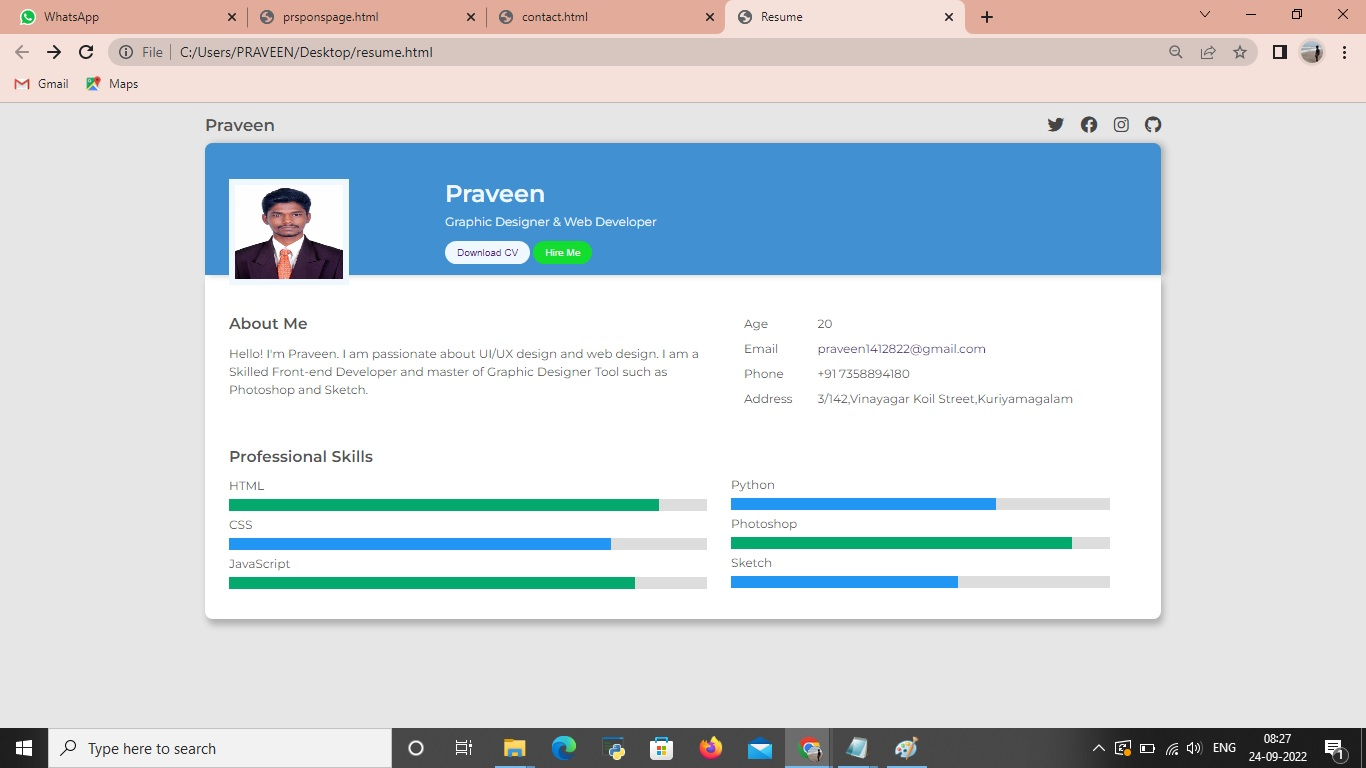
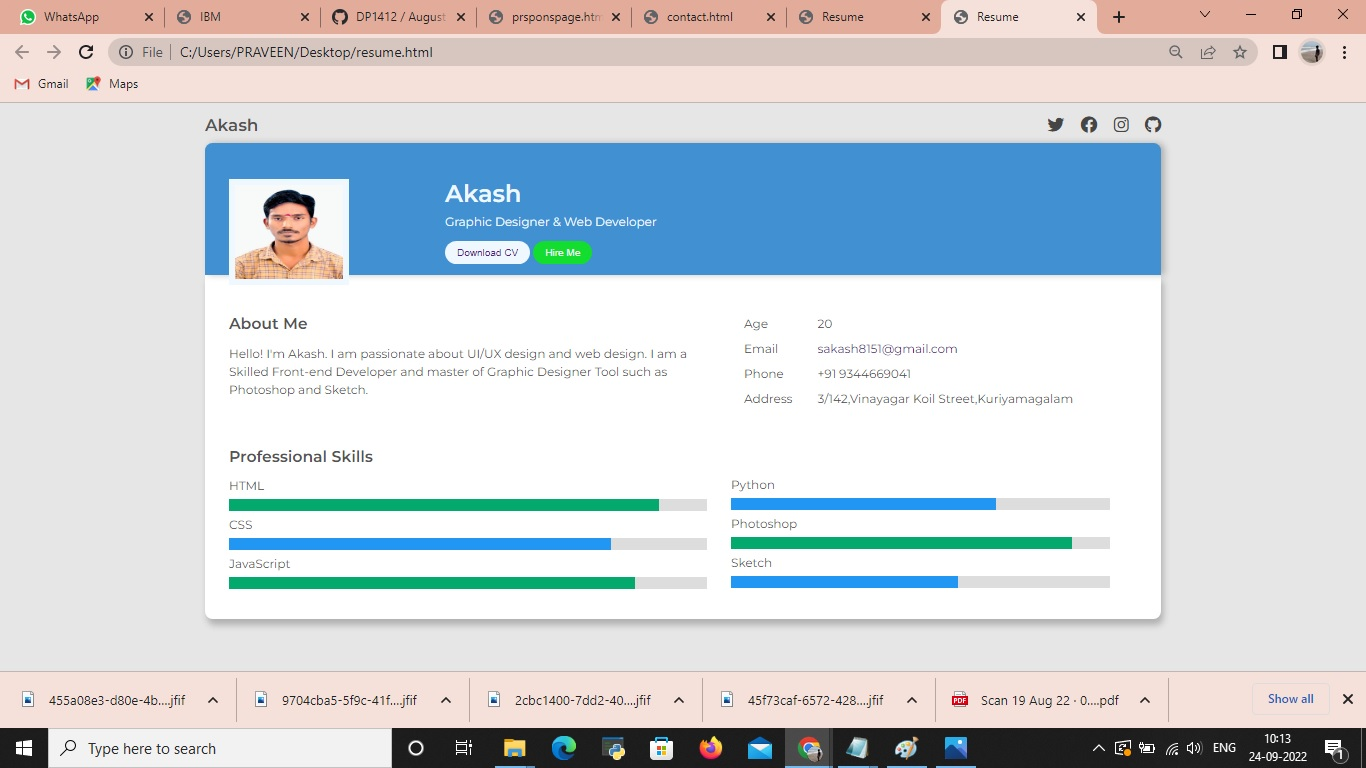
Add files via upload

diff --git a/resume.html b/resume.html
@@ -21,7 +21,7 @@
 <body>
     <!-- Title Container -->
     <div class="title-container">
-        <div class="name">Praveen</div>
+        <div class="name">Akash</div>
         <div class="social-icons">
             <a href="#"><i class="fa-brands fa-twitter"></i></a>
             <a href="#"><i class="fa-brands fa-facebook"></i></a>
@@ -32,11 +32,11 @@
     <!-- Upper Box -->
     <div class="upper-box">
         <div class="profile-box">
-            <img src="./profilepic.jpg" height="80%" width="55%">
+            <img src="./profilepic.jfif" height="80%" width="55%">
         </div>
         <div class="detail-box">
             <div class="name">
-                Praveen
+                Akash
             </div>
             <div class="para">Graphic Designer & Web Developer</div>
             <div class="buttons">
@@ -51,7 +51,7 @@
             <br>
             <div class="title">About Me</div>
             <div class="paragraph">
-                Hello! I'm Praveen. I am passionate about UI/UX design and web design. I am a Skilled Front-end
+                Hello! I'm Akash. I am passionate about UI/UX design and web design. I am a Skilled Front-end
                 Developer and master of Graphic Designer Tool such as Photoshop and Sketch.
             </div>
             <div class="skill-bars">
@@ -83,15 +83,15 @@
                 </tr>
                 <tr>
                     <td>Email</td>
-                    <td><a href="" style="text-decoration: none;">praveen1412822@gmail.com</a></td>
+                    <td><a href="" style="text-decoration: none;">sakash8151@gmail.com</a></td>
                 </tr>
                 <tr>
                     <td>Phone</td>
-                    <td>+91 7358894180</td>
+                    <td>+91 9344669041</td>
                 </tr>
                 <tr>
                     <td>Address</td>
-                    <td>3/142,vinayagar koil street,kuriyamangalam</td>
+                    <td>68 A, Yadhavar Street,Periyakattusagai</td>
                 </tr>
             </table>
             <div class="skill-bars">

diff --git a/contact.html b/contact.html
@@ -77,7 +77,7 @@ button[type=submit] {
                 </tr>
                 <tr>
                   
-                    <td>3/142,Vinayagar Koil Street,Kuriyamagalam</td>
+                    <td>68 A, Yadhavar Street,Periyakattusagai</td>
                 </tr>
                
                 <tr>
@@ -86,7 +86,7 @@ button[type=submit] {
                 </tr>
                 <tr>
                     
-                    <td><a href="" style="text-decoration: none;">praveen1412822@gmail.com</a></td>
+                    <td><a href="" style="text-decoration: none;">sakash8151@gmail.com</a></td>
                 </tr>
                 <tr>
                     <td><b>Phone</b></td>
@@ -94,7 +94,7 @@ button[type=submit] {
                 </tr>
                 <tr>
                     
-                    <td>+91 7358894180</td>
+                    <td>+91 9344669041</td>
                 </tr>
                 
                 
@@ -104,7 +104,7 @@ button[type=submit] {
     </div>
    
 </div>
-<h2>Praveen</h2><br>
+<h2>Akash</h2><br>
 <div class="social-icons">
     <a href="#"><i class="fa-brands fa-twitter"></i></a>
     <a href="#"><i class="fa-brands fa-facebook"></i></a>
